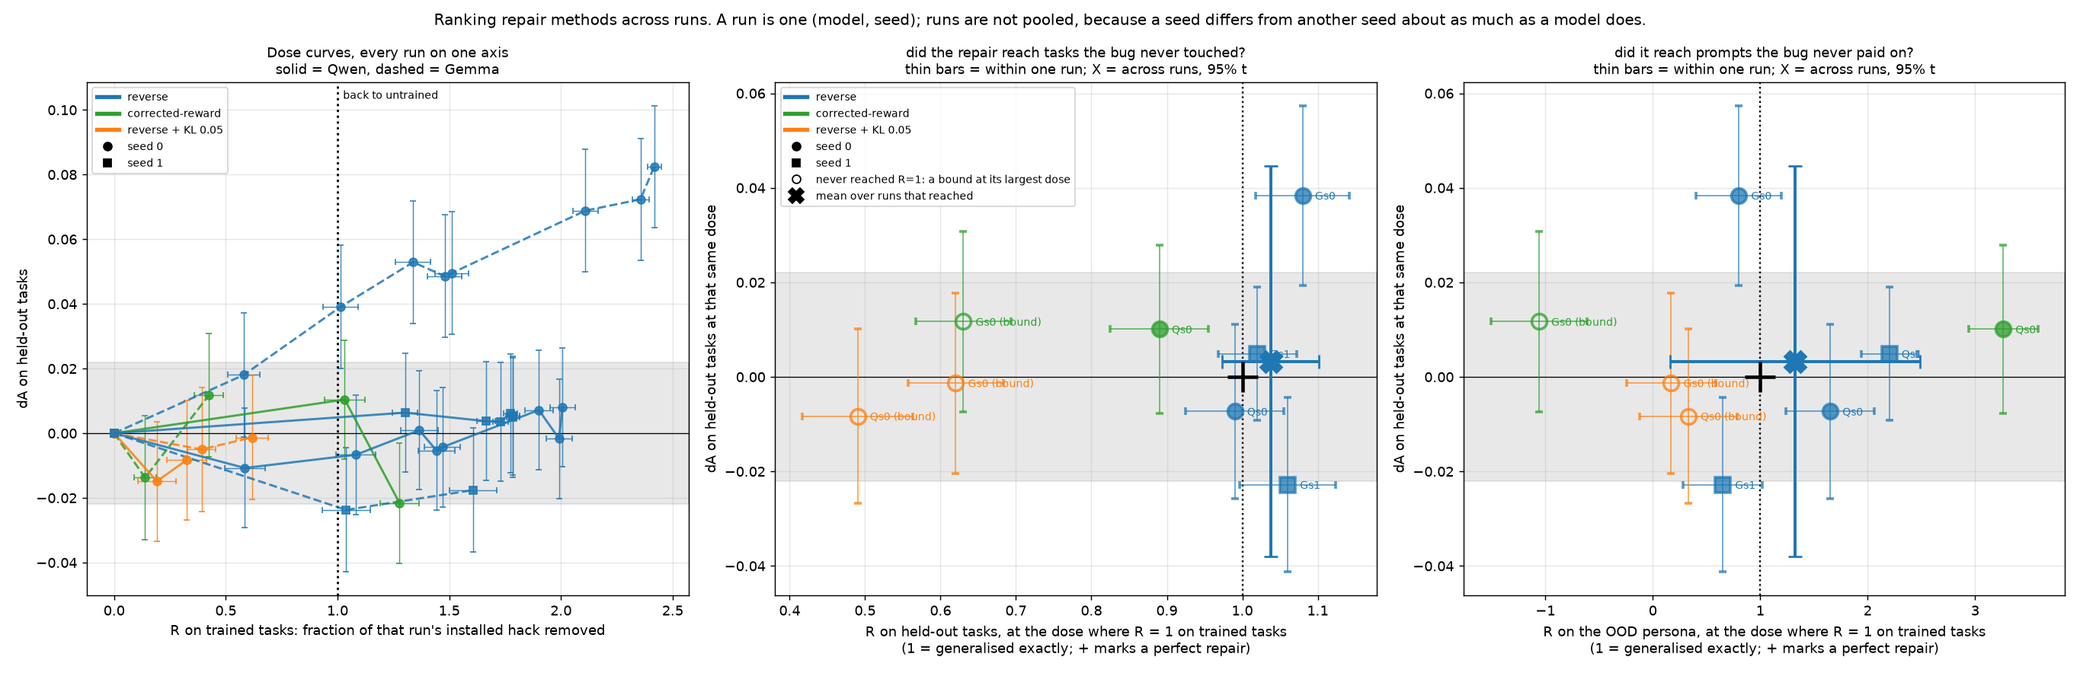
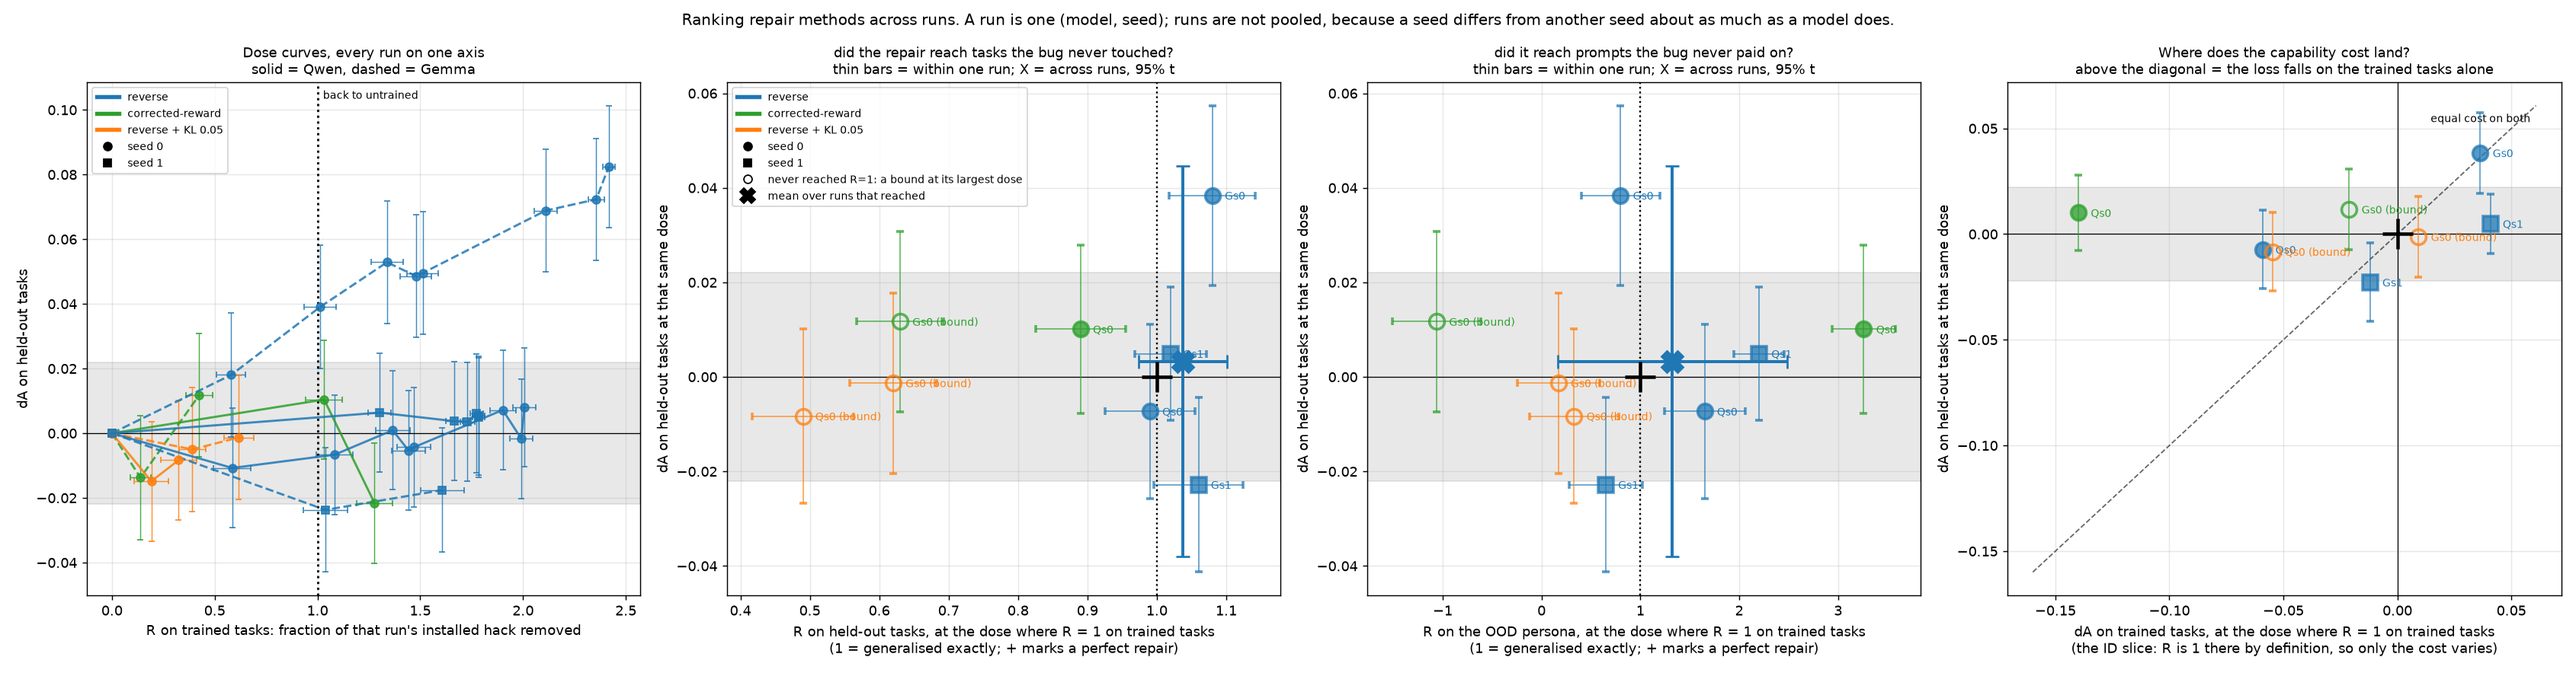
Give the ID slice its own panel: where the capability cost lands
The summary had panels for the two slices the repair must generalise to but none
for the ID slice, because the operating point is defined there and its R is 1 by
construction. What varies on that slice is the cost, so the fourth panel plots the
cost on trained tasks against the cost on held-out tasks.

It separates two failures the held-out number hides. The corrected-reward control
on Qwen costs -0.140 on trained tasks and +0.010 on held-out ones at the matched
dose: it is not expensive in general, it specifically destroys the tasks it was
trained on, a third of that run's RL gain, while looking free everywhere else.
Reverse on the same run is the same shape an order of magnitude smaller (-0.059
against -0.007) and within the floor on both axes for the other three runs.

The panel's first title had the diagonal inverted -- a loss confined to the trained
tasks puts a point above the line, not below it.

Claude-Session: https://claude.ai/code/session_015AAHL5YkZYZs7zTR2G6eNb

diff --git a/creatures/analysis/rank.py b/creatures/analysis/rank.py
@@ -172,7 +172,7 @@ def figure(out):
     matplotlib.use("Agg")
     import matplotlib.pyplot as plt
     cs, t = curves(), table()
-    fig, axes = plt.subplots(1, 3, figsize=(21, 6.8))
+    fig, axes = plt.subplots(1, 4, figsize=(26, 6.8))
 
     ax = axes[0]
     for (model, seed, method), df in sorted(cs.items()):
@@ -192,7 +192,7 @@ def figure(out):
                  fontsize=10)
     ax.grid(alpha=.3)
 
-    for ax, (col, cicol, xlab, question) in zip(axes[1:], SUMMARY):
+    for ax, (col, cicol, xlab, question) in zip(axes[1:3], SUMMARY):
         for _, r in t.iterrows():
             ax.errorbar([r[col]], [r.dA_at_target], xerr=[r[cicol]], yerr=[r.dA_ci],
                         fmt=MARK[r.seed], color=COLOUR[r.method], ms=11, capsize=3,
@@ -219,6 +219,35 @@ def figure(out):
         ax.set_title(question + "\nthin bars = within one run; X = across runs, 95% t",
                      fontsize=10)
         ax.grid(alpha=.3)
+
+    # The ID slice has no generalisation panel -- R is 1 there by construction -- but its
+    # cost does vary, and it is where a method can damage the tasks it was trained on while
+    # looking free on held-out ones. On the diagonal the cost is shared; above it the loss
+    # is on the trained tasks alone, which is where the corrected-reward control sits.
+    ax = axes[3]
+    for _, r in t.iterrows():
+        ax.errorbar([r.dA_tr_at_target], [r.dA_at_target], yerr=[r.dA_ci],
+                    fmt=MARK[r.seed], color=COLOUR[r.method], ms=11, capsize=3,
+                    elinewidth=.9, alpha=.75,
+                    mfc=COLOUR[r.method] if r.reached else "none", mew=2, zorder=5)
+        ax.annotate(f"{r.model[0]}{r.seed}" + ("" if r.reached else " (bound)"),
+                    (r.dA_tr_at_target, r.dA_at_target), fontsize=7.5,
+                    color=COLOUR[r.method], xytext=(9, -3), textcoords="offset points")
+    lim = [min(t.dA_tr_at_target.min(), t.dA_at_target.min()) - .02,
+           max(t.dA_tr_at_target.max(), t.dA_at_target.max()) + .02]
+    ax.plot(lim, lim, "k--", lw=1, alpha=.6)
+    ax.annotate("equal cost on both", (lim[1], lim[1]), fontsize=7.5, ha="right",
+                xytext=(-4, -12), textcoords="offset points")
+    ax.plot(0, 0, "k+", ms=22, mew=2.5, zorder=7)
+    ax.axhline(0, color="k", lw=.7); ax.axvline(0, color="k", lw=.7)
+    ax.axhspan(-0.022, 0.022, color="grey", alpha=.18, zorder=0)
+    ax.set_xlabel("dA on trained tasks, at the dose where R = 1 on trained tasks\n"
+                  "(the ID slice: R is 1 there by definition, so only the cost varies)")
+    ax.set_ylabel("dA on held-out tasks at that same dose")
+    ax.set_title("Where does the capability cost land?\n"
+                 "above the diagonal = the loss falls on the trained tasks alone",
+                 fontsize=10)
+    ax.grid(alpha=.3)
 
     h = [plt.Line2D([], [], color=c, lw=3, label=m) for m, c in COLOUR.items()]
     h += [plt.Line2D([], [], color="k", marker=MARK[sd], ls="", label=f"seed {sd[-1]}")

diff --git a/creatures/docs/EVAL.md b/creatures/docs/EVAL.md
@@ -368,10 +368,12 @@ interpolation once a curve reaches it.
 Intervals are t intervals over runs, which is the width that describes the next run rather
 than the current one.
 
-The left panel is every run's dose curve. The other two are summaries at the one dose where
+The left panel is every run's dose curve. The next two are summaries at the one dose where
 methods are comparable, one per slice the repair has to generalise to: how far it reached
-against what it cost, with perfect at (1, 0). The trained slice gets no summary panel of its
-own, because the operating point is defined on it and its R is 1 by construction.
+against what it cost, with perfect at (1, 0). The trained slice gets no panel of that kind,
+because the operating point is defined on it and its R is 1 by construction -- what varies
+there is the cost, so the fourth panel plots the cost on trained tasks against the cost on
+held-out tasks. Above its diagonal the loss falls on the trained tasks alone.
 
 The value at that point is **interpolated, not the nearest measured dose** -- linearly,
 between the two points bracketing R = 1, with the anchor at the origin always available as
@@ -401,6 +403,13 @@ reaches R = 1.33 +/- 1.16 there, an interval running from 0.16 to 2.49, and the 
 not noise but a split by model: Gemma undershoots on both seeds (0.65, 0.80) while Qwen
 overshoots on both (1.65, 2.20). Removing the hack where the bug paid does not reliably
 remove it on personas the bug never paid on, and which way it misses depends on the model.
+
+**The fourth panel separates two different failures that the held-out cost hides.** At the
+matched dose the corrected-reward control on Qwen costs -0.140 on trained tasks and +0.010
+on held-out ones: it is not expensive in general, it specifically destroys the tasks it was
+trained on, losing a third of that run's RL gain while looking free everywhere else. Reverse
+on the same run sits at -0.059 against -0.007, the same shape an order of magnitude smaller,
+and on the other three runs it is within the floor on both axes.
 
 **The dual criterion does not help.** Fixing the cost and reading the removal -- the largest
 R that keeps 90% of the RL gain -- is a reasonable way to compare methods, and it is
